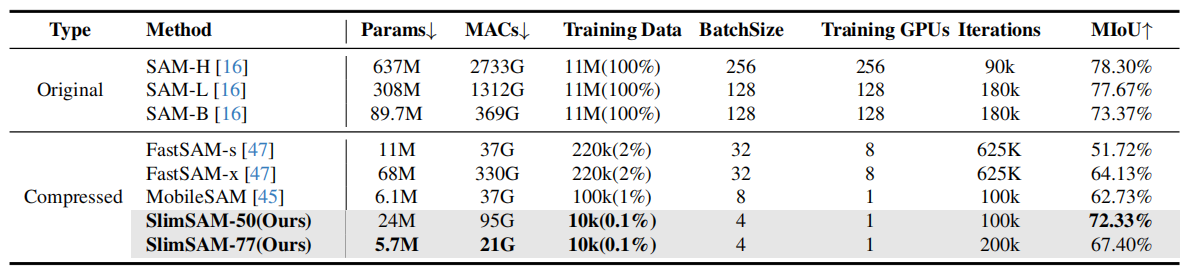
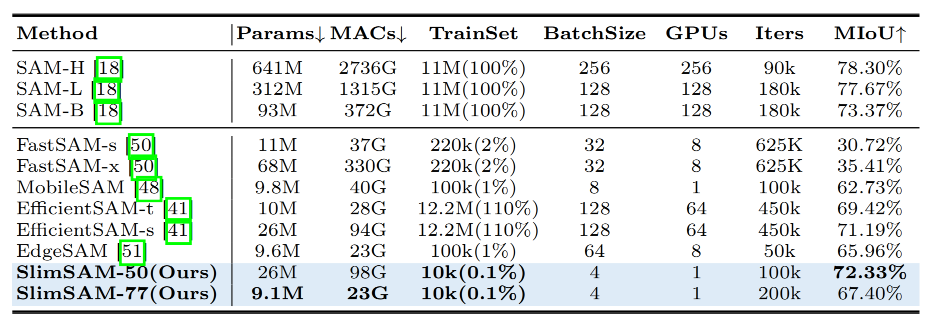
0311

diff --git a/README.md b/README.md
@@ -41,9 +41,9 @@
 * 🚀 **December 19, 2023**: Release the Colab example for **SlimSAM**.
 * 🚀 **December 11, 2023**: Release the training code, inference code and pre-trained models for **SlimSAM**. 
 
-<div align="center">
+<!-- <div align="center">
 <img src="images/paper/everything.PNG" width="100%">
-</div>
+</div> -->
 
 
 ## Fast Start 🚀
@@ -69,18 +69,18 @@ scores = outputs.iou_scores
 ## Introduction
 
 <div align="center">
-<img src="images/paper/intro.PNG" width="55%">
+<img src="images/paper/intro.PNG" width="90%">
 </div>
 
 <div align="center">
-<img src="images/paper/process.PNG" width="100%">
+<img src="images/paper/process.PNG" width="90%">
 </div>
 
-**SlimSAM** is a novel SAM compression method, which efficiently reuses pre-trained SAMs without the necessity for extensive retraining. This is achieved by the efficient reuse of pre-trained SAMs through a unified pruning-distillation framework. To enhance knowledge inheritance from the original SAM, we employ an innovative alternate slimming strategy that partitions the compression process into a progressive procedure. Diverging from prior pruning techniques, we meticulously prune and distill decoupled model structures in an alternating fashion. Furthermore, a novel label-free pruning criterion is also proposed to align the pruning objective with the optimization target, thereby boosting the post-distillation after pruning.
+**SlimSAM** is a novel data-efficient SAM compression method that achieves superior performance with extremely less training data. The essence of SlimSAM is encapsulated in the alternate slimming framework which effectively enhances knowledge inheritance under severely limited training data availability and exceptional pruning ratio. Diverging from prior techniques, our framework progressively compresses the model by alternately pruning and distilling distinct, decoupled sub-structures. Disturbed Taylor pruning is also proposed to address the misalignment between the pruning objective and training target, thereby boosting the post-distillation after pruning.
 
 ![Frame](images/paper/frame.PNG?raw=true)
 
-SlimSAM achieves approaching performance while reducing the parameter counts to **0.9\% (5.7M)**, MACs to **0.8\% (21G)**, and requiring mere **0.1\% (10k)** of the training data when compared to the original SAM-H. Extensive experiments demonstrate that our method realize significant superior performance while utilizing over **10 times** less training data when compared to other SAM compression methods.
+SlimSAM yields significant performance improvements while demanding **over 10 times less** training data than any other existing compression methods. Even when compared to the original SAM, SlimSAM achieves approaching performance while reducing parameter counts to merely **1.4\% (9.1M)**, MACs to **0.8\% (23G)**, and requiring only **0.1\% (10k)** of the SAM training data.
 
 ## Visualization Results
 
@@ -108,7 +108,7 @@ We conducted a comprehensive comparison encompassing performance, efficiency, an
 
 ### Comparing with other structural pruning methods.
 <div align="center">
-  <img src="images/paper/compare_tab2.PNG" width="50%">
+  <img src="images/paper/compare_tab2.PNG" width="80%">
 </div>
 
 ## Installation
@@ -309,6 +309,7 @@ If you use SlimSAM in your research, please use the following BibTeX entry. Than
 
 ***********************************************************
 
+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
 
 
-
+git remote set-url origin https://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@github.com/czg1225/SlimSAM.git
